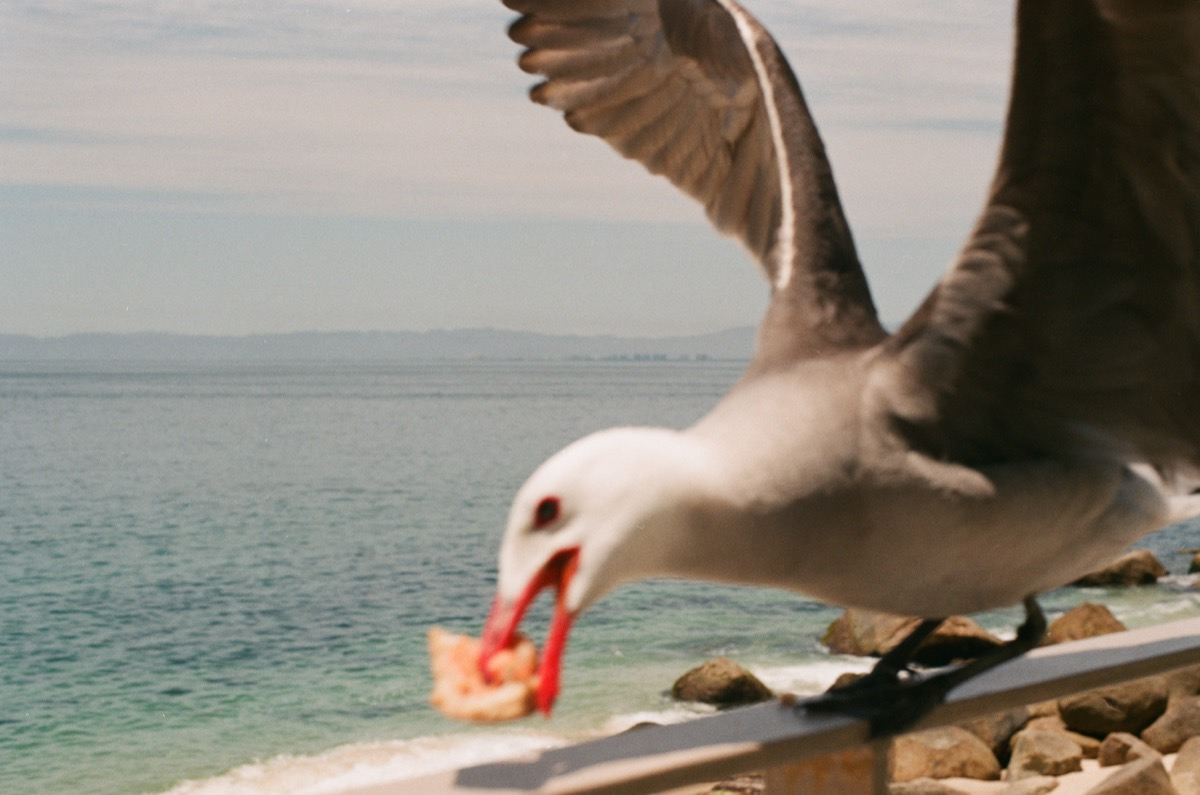
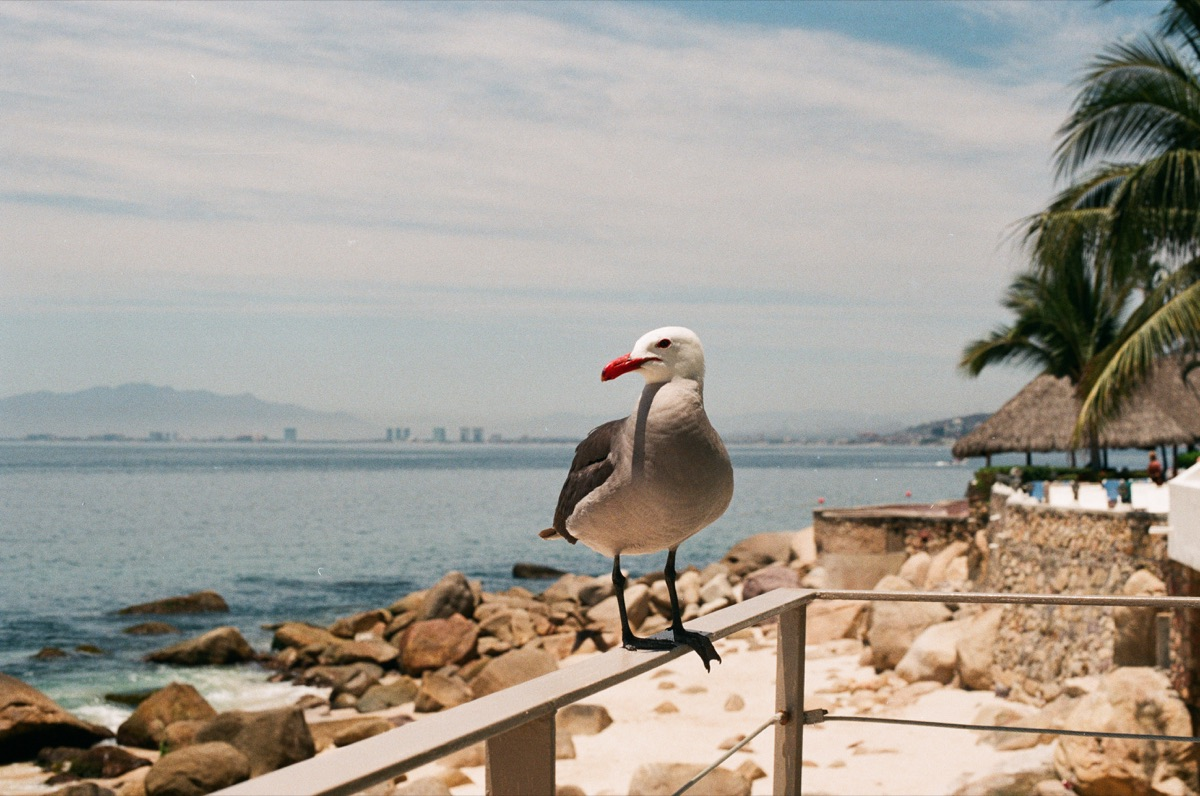
Sync photography selection and Nacozari credit

diff --git a/index.html b/index.html
@@ -913,8 +913,8 @@ Shot & edited by Brian Hansen`,
         {
           title: "NACOZARI RIFA!",
           meta: "Documentary portrait / 2023",
-          desc:
-            "A montage exercise that becomes a portrait of a community. Intimate, behind-the-scenes moments captured<br />with a Handycam during a film workshop in a town in northern Mexico.",
+          desc: `A montage exercise that becomes a portrait of a community. Intimate, behind-the-scenes moments captured<br />with a Handycam during a film workshop in a town in northern Mexico.
+Shot & edited by Brian Hansen`,
           still: "https://i.vimeocdn.com/video/2115272348-2d9ceb173dfac9122493ea0d6aaea3e7dd2c75ab7226b50a33361fa3407226e4-d_1280?region=us",
           src: "https://player.vimeo.com/video/1160381965?autoplay=1&title=0&byline=0&portrait=0",
         },
@@ -931,18 +931,16 @@ Shot & edited by Brian Hansen`,
         { file: "Hi there!.jpeg", label: "Hi there!" },
         { file: "Polignano A Mare.jpeg", label: "Polignano A Mare" },
         { file: "Out of the blue, and into the black.jpeg", label: "Out of the blue, and into the black" },
+        { file: "Placebo.jpeg", label: "Placebo" },
         { file: "Vecchio.jpeg", label: "Vecchio" },
-        { file: "Real de Catoce.jpeg", label: "Real de Catoce" },
-        { file: "Tren Porteño.jpeg", label: "Tren Porteño" },
-        { file: "!.jpeg", label: "!" },
+        { file: "Real de Catoce.jpeg", label: "REAL DE CATOCE" },
+        { file: "Tren Porteño.jpeg", label: "TREN PORTEÑO" },
         { file: "Be water my friend....jpeg", label: "Be water my friend..." },
         { file: "Chupacabras.jpeg", label: "Chupacabras" },
         { file: "Florida.jpeg", label: "Florida" },
         { file: "Frame.jpeg", label: "Frame" },
-        { file: "Frisco.jpeg", label: "Frisco" },
         { file: "Hey you! Get of my cloud!.jpeg", label: "Hey you! Get of my cloud!" },
         { file: "Lynch.jpeg", label: "Lynch" },
-        { file: "Quote.jpeg", label: "Quote" },
         { file: "Signs.jpeg", label: "Signs" },
       ];
 
